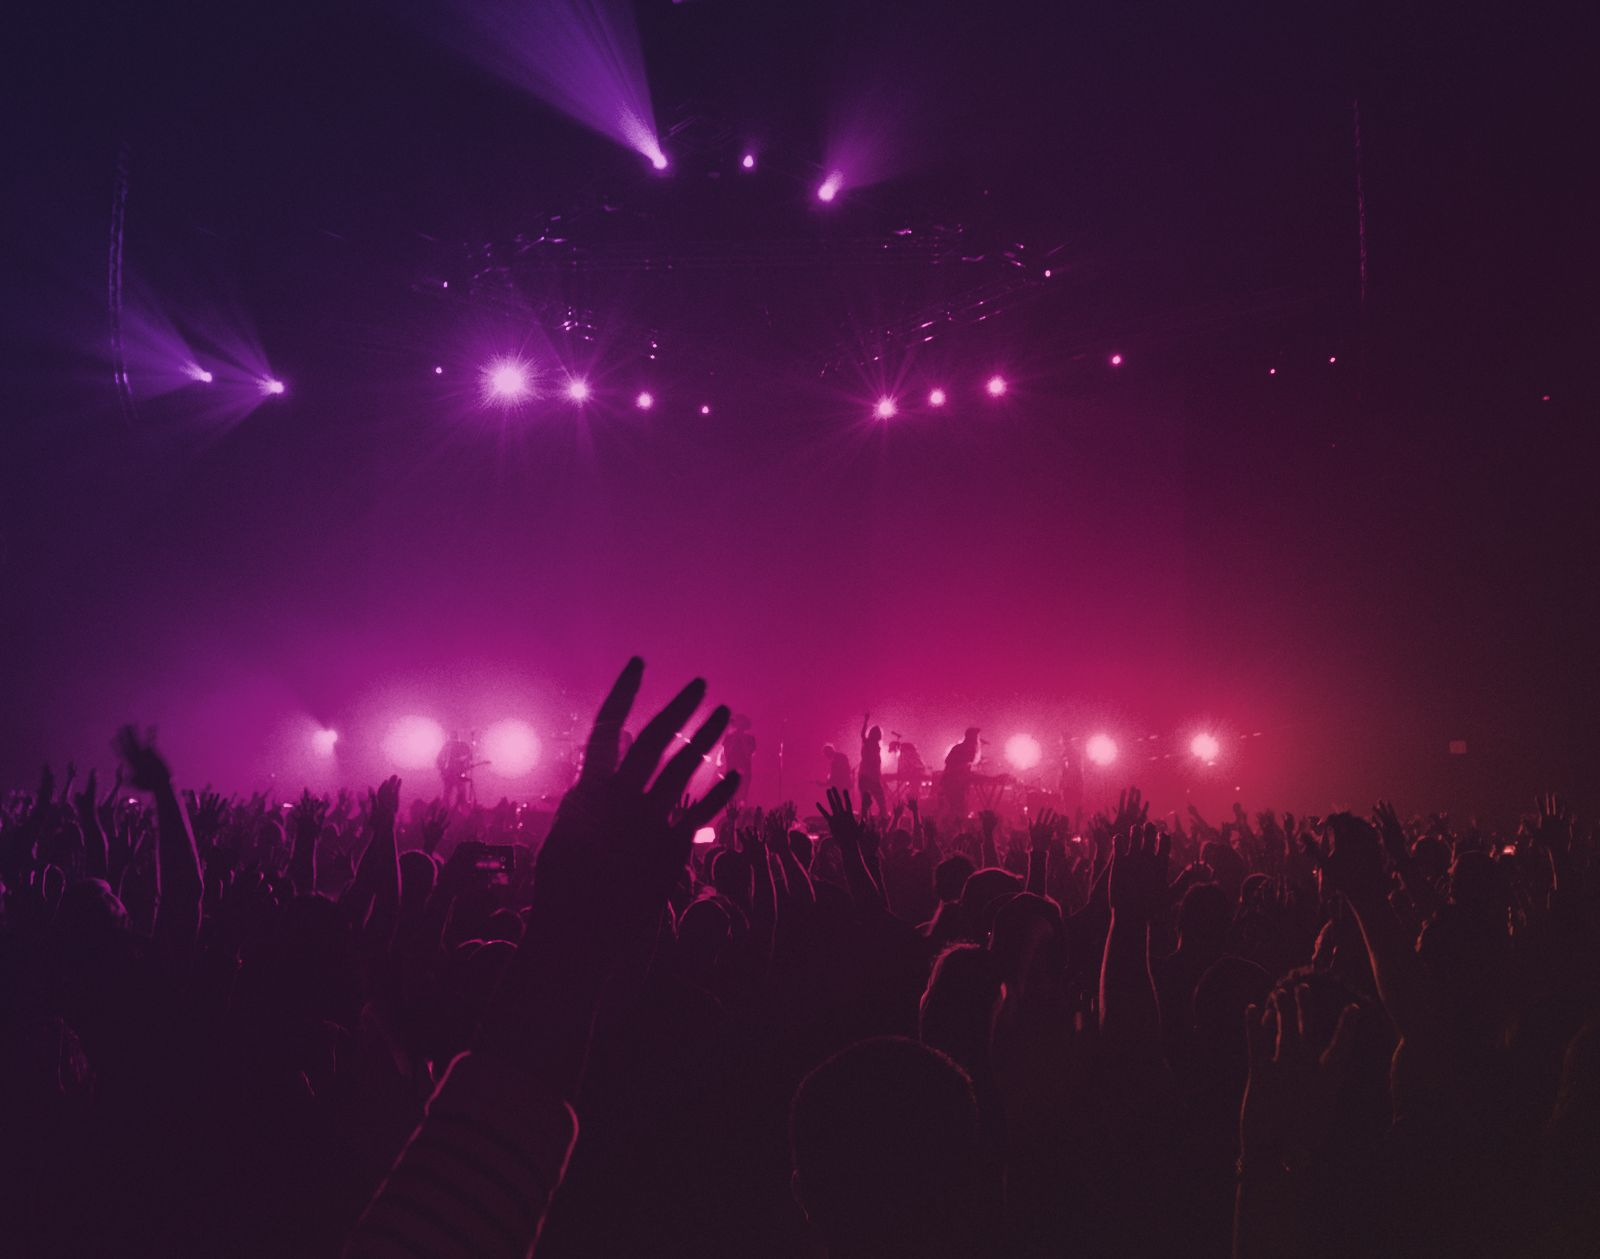
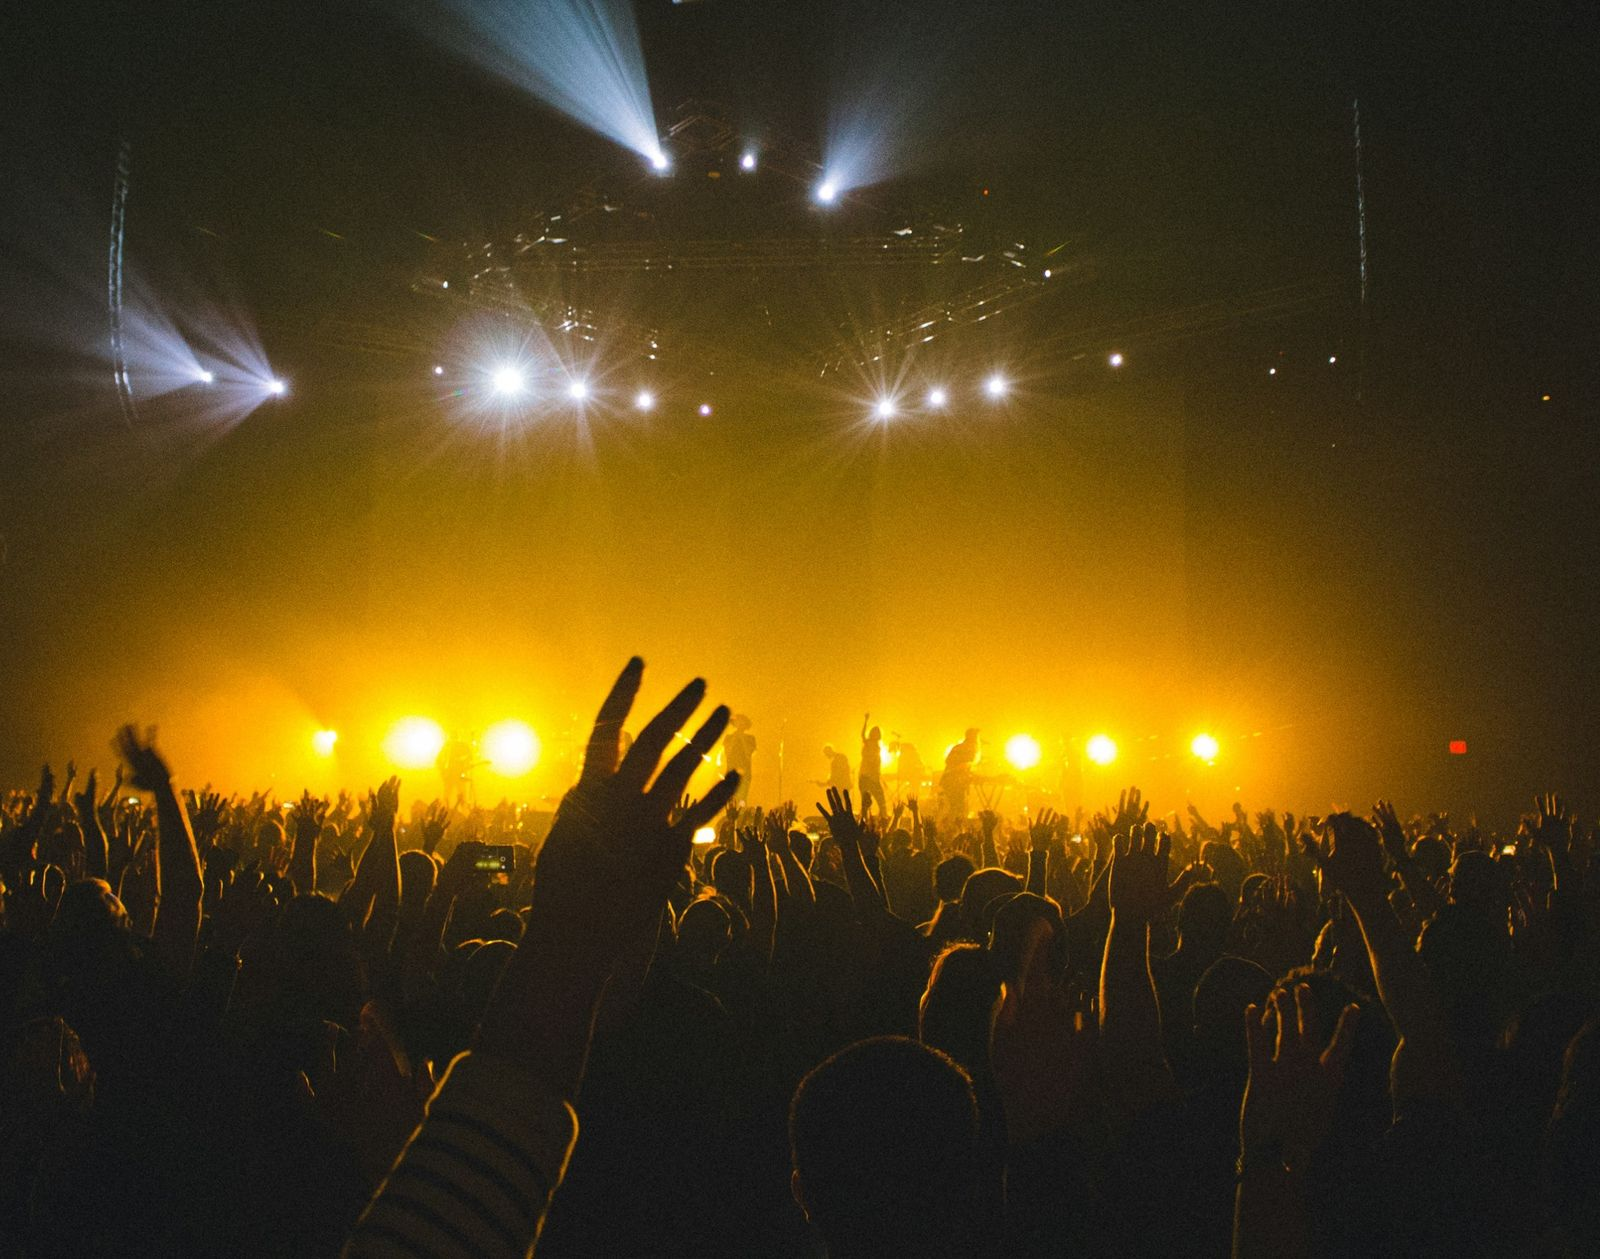
Présentation : « Comment ça marche » avec la photo aux couleurs d'origine (jaune), plus visible
Claude-Session: https://claude.ai/code/session_01RiYdCYRYeb1TfsXTxRy4Ss

diff --git a/site/site.css b/site/site.css
@@ -95,10 +95,13 @@ kbd { background: var(--soft); border: 1px solid var(--line); border-radius: 6px
 .card-photo h3 { margin-top: .9rem; }
 .card-photo p { padding-bottom: 1.1rem; }
 
-/* « Comment ça marche » : photo de public teintée, voilée pour garder les étapes lisibles */
-.steps-bg { position: relative; isolation: isolate; padding-block: 5rem; overflow: hidden;
-  background: var(--bg) url("pictos/public-scene.jpg") center 72% / cover no-repeat; }
+/* « Comment ça marche » : photo de concert aux couleurs d'origine (jaune), voile léger pour la lisibilité */
+.steps-bg { position: relative; isolation: isolate; padding-block: 6rem 7rem; overflow: hidden;
+  background: var(--bg) url("pictos/public-scene.jpg") center 70% / cover no-repeat; }
 .steps-bg::before { content: ''; position: absolute; inset: 0; z-index: -1;
-  background: linear-gradient(180deg, var(--bg) 0%, rgba(20, 17, 29, .35) 20%, rgba(20, 17, 29, .1) 55%, rgba(20, 17, 29, .45) 85%, var(--bg) 100%); }
-.steps-bg .lead { color: #d6d0e4; }
-.steps-bg .steps li { background: rgba(31, 27, 44, .72); backdrop-filter: blur(6px); -webkit-backdrop-filter: blur(6px); border-color: rgba(255, 255, 255, .12); }
+  background: linear-gradient(180deg, var(--bg) 0%, rgba(20, 17, 29, .2) 18%, rgba(20, 17, 29, 0) 50%, rgba(20, 17, 29, .25) 85%, var(--bg) 100%); }
+.steps-bg h2, .steps-bg .lead { text-shadow: 0 2px 12px rgba(0, 0, 0, .8); }
+section.steps-bg > .wrap > p.lead { color: #f1ece0; }
+.steps-bg .steps li { background: rgba(20, 17, 29, .62); backdrop-filter: blur(4px); -webkit-backdrop-filter: blur(4px); border-color: rgba(255, 214, 120, .25); }
+.steps-bg .steps li::before { background: #f5b531; color: #1d1608; }
+.steps-bg .steps span { color: #e4ded2; }
